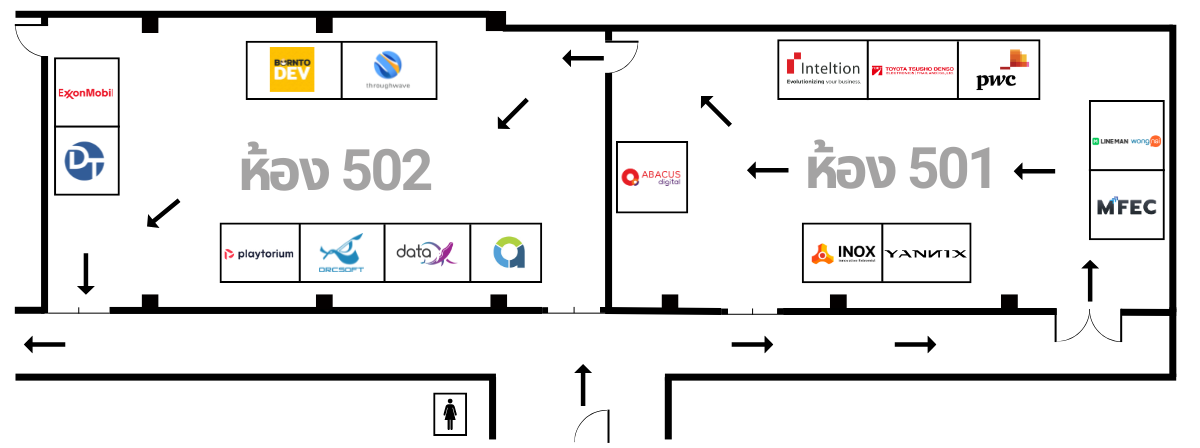
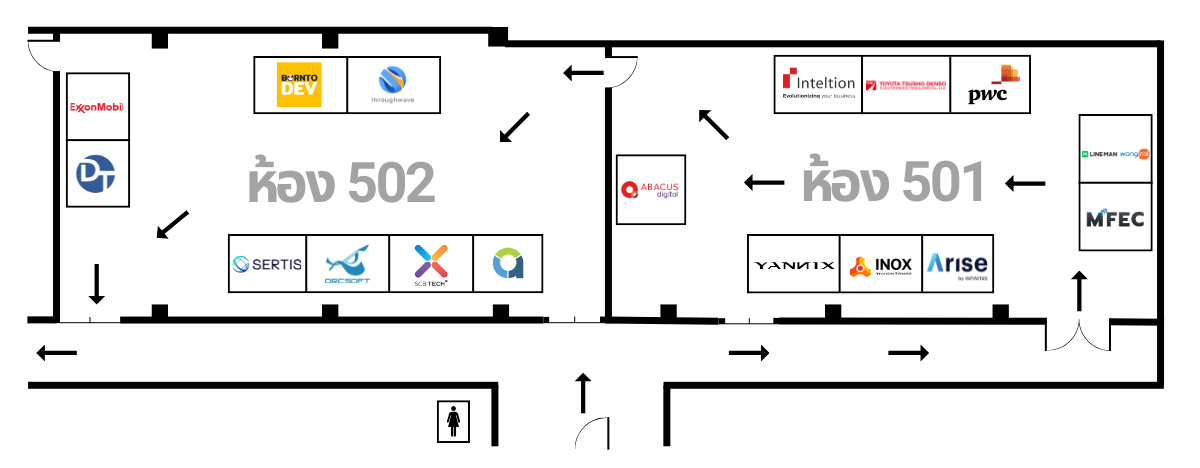
Release 1.0.8 (#67)
* fix: update config (#51)

* feat: fix logo overflow, add more info (#52)

* feat: seminar-section (#53)

* feat: change seminar-table to support 1 room

* feat: add chart image

* hotfix: fix dockerfile (#54)

* FIX | fix github actions (#55)

* hotfix: fix dockerfile

* fix: fix github actions pipeline

* FIX | Pull new image (#56)

* hotfix: fix dockerfile

* fix: fix github actions pipeline

* fix: fix github pipeline

* FIX | fix docker compose (#57)

* hotfix: fix dockerfile

* fix: fix github actions pipeline

* fix: fix github pipeline

* feat: always pull image

* fix: fix arai mai ru

* feat/deploy-prod

* fix: fix active navbar (#58)

* fix: fix prod.yml

* HOTFIX | fix locations styles (#60)

* hotfix: fix locations styles

* fix: remove console.log

---------

* FIX | improve navbar size (#61)

* fix: fix active navbar

* style: improve bigger navbar

---------

* FIX | modal too long (#63)

* fix: add scroll bar, pai add style kan ao aeng na

* fix: fix navbar padding

* fix: fix navbar padding

---------

* update layout images

* FIX | mobile navbar close on click (#65)

* fix: mobile navbar close on click

* fix: change chart images

---------

diff --git a/src/shared/components/navbar/navbar.tsx b/src/shared/components/navbar/navbar.tsx
@@ -36,30 +36,35 @@ export function NavBar() {
           </svg>
         </Trigger>
 
-        <Content
-          align="start"
-          sideOffset={5}
-          className="w-full rounded-lg bg-black p-4 text-white shadow-md md:hidden"
-        >
-          <ul className="flex flex-col space-y-4">
-            {NAV_LINKS.map((navLink, index) => (
-              <li key={index}>
-                <Link
-                  href={navLink.href}
-                  className={cn(
-                    'transition-colors',
-                    currenSection === navLink.href.slice(1)
-                      ? 'text-orange-200 underline underline-offset-4'
-                      : 'hover:text-shadow-orange text-white',
-                  )}
-                >
-                  {navLink.name}
-                </Link>
-              </li>
-            ))}
-          </ul>
-          <Arrow className="fill-current text-white" />
-        </Content>
+        {isMenuOpen && (
+          <Content
+            align="start"
+            sideOffset={5}
+            className="w-full rounded-lg bg-black p-4 text-white shadow-md md:hidden"
+          >
+            <ul className="flex flex-col space-y-4">
+              {NAV_LINKS.map((navLink, index) => (
+                <li key={index}>
+                  <Link
+                    onClick={() => {
+                      setIsMenuOpen(false);
+                    }}
+                    href={navLink.href}
+                    className={cn(
+                      'transition-colors',
+                      currenSection === navLink.href.slice(1)
+                        ? 'text-orange-200 underline underline-offset-4'
+                        : 'hover:text-shadow-orange text-white',
+                    )}
+                  >
+                    {navLink.name}
+                  </Link>
+                </li>
+              ))}
+            </ul>
+            <Arrow className="fill-current text-white" />
+          </Content>
+        )}
       </Root>
 
       <ul className="mx-2 hidden space-x-4 font-bold md:flex lg:space-x-10">
